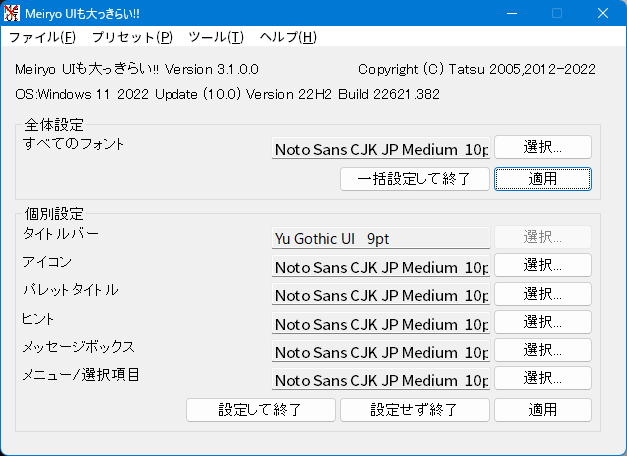
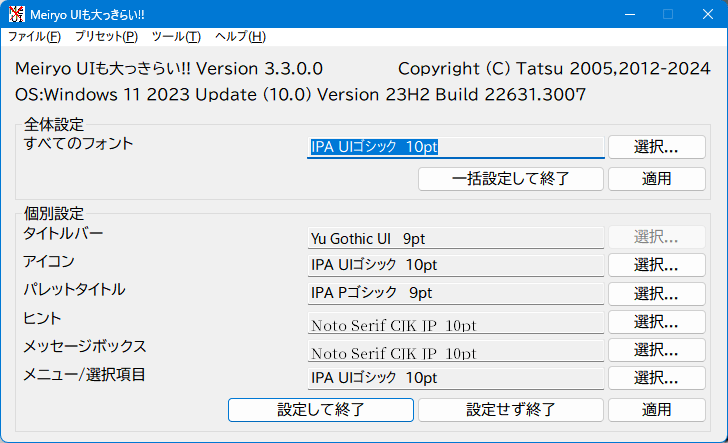
Update help file images, change year in credits.

diff --git a/help/ja-jp/contents/02.html b/help/ja-jp/contents/02.html
@@ -29,7 +29,7 @@ The sources for noMeiryoUI are distributed under the MIT open source license
 </p>
 
 <p>
-<img src="noMeiryoUI.PNG" width="627" height="456" alt="Meiryo UIも大っきらい!!画面"><br>
+<img src="noMeiryoUI.PNG" width="728" height="443" alt="Meiryo UIも大っきらい!!画面"><br>
 </p>
 </div>
 <hr>
@@ -71,7 +71,7 @@ The sources for noMeiryoUI are distributed under the MIT open source license
 <h2><a id="FontSel">2.3 フォントの選択</a></h2>
 <p>
 　フォント名の横にある選択ボタンを押下すると下記のフォント選択ダイアログが表示されます。<br>
-<img src="FontSel.PNG" width="615" height="337" alt="フォント選択ダイアログ"><br>
+<img src="FontSel.PNG" width="615" height="339" alt="フォント選択ダイアログ"><br>
 </p>
 <p>
 　フォント選択ダイアログでは以下の指定を行うことができます。<br>

diff --git a/help/en-us/contents/02.html b/help/en-us/contents/02.html
@@ -1,6 +1,6 @@
 <!DOCTYPE HTML>
 <!--
-noMeiryoUI (C) 2005,2012-2023 Tatsuhiko Shoji,mon-jai
+noMeiryoUI (C) 2005,2012-2024 Tatsuhiko Shoji,mon-jai
 The sources for noMeiryoUI are distributed under the MIT open source license
 -->
 <html>
@@ -28,7 +28,7 @@ This icon(<img src="icon.png" width="32" height="32">).<br>
 
 <p>
 And, below window is displayed.<br>
-<img src="noMeiryoUI.PNG" width="602" height="434"><br>
+<img src="noMeiryoUI.PNG" width="728" height="446"><br>
 Push select... button to set user interface element.<br>
 </p>
 

diff --git a/help/en-us/contents/03.html b/help/en-us/contents/03.html
@@ -1,6 +1,6 @@
 <!DOCTYPE HTML>
 <!--
-noMeiryoUI (C) 2005,2012-2023 Tatsuhiko Shoji,mon-jai
+noMeiryoUI (C) 2005,2012-2024 Tatsuhiko Shoji,mon-jai
 The sources for noMeiryoUI are distributed under the MIT open source license
 -->
 <html>

diff --git a/help/en-us/contents/04.html b/help/en-us/contents/04.html
@@ -1,6 +1,6 @@
 <!DOCTYPE HTML>
 <!--
-noMeiryoUI (C) 2005,2012-2023 Tatsuhiko Shoji,mon-jai
+noMeiryoUI (C) 2005,2012-2024 Tatsuhiko Shoji,mon-jai
 The sources for noMeiryoUI are distributed under the MIT open source license
 -->
 <html>
